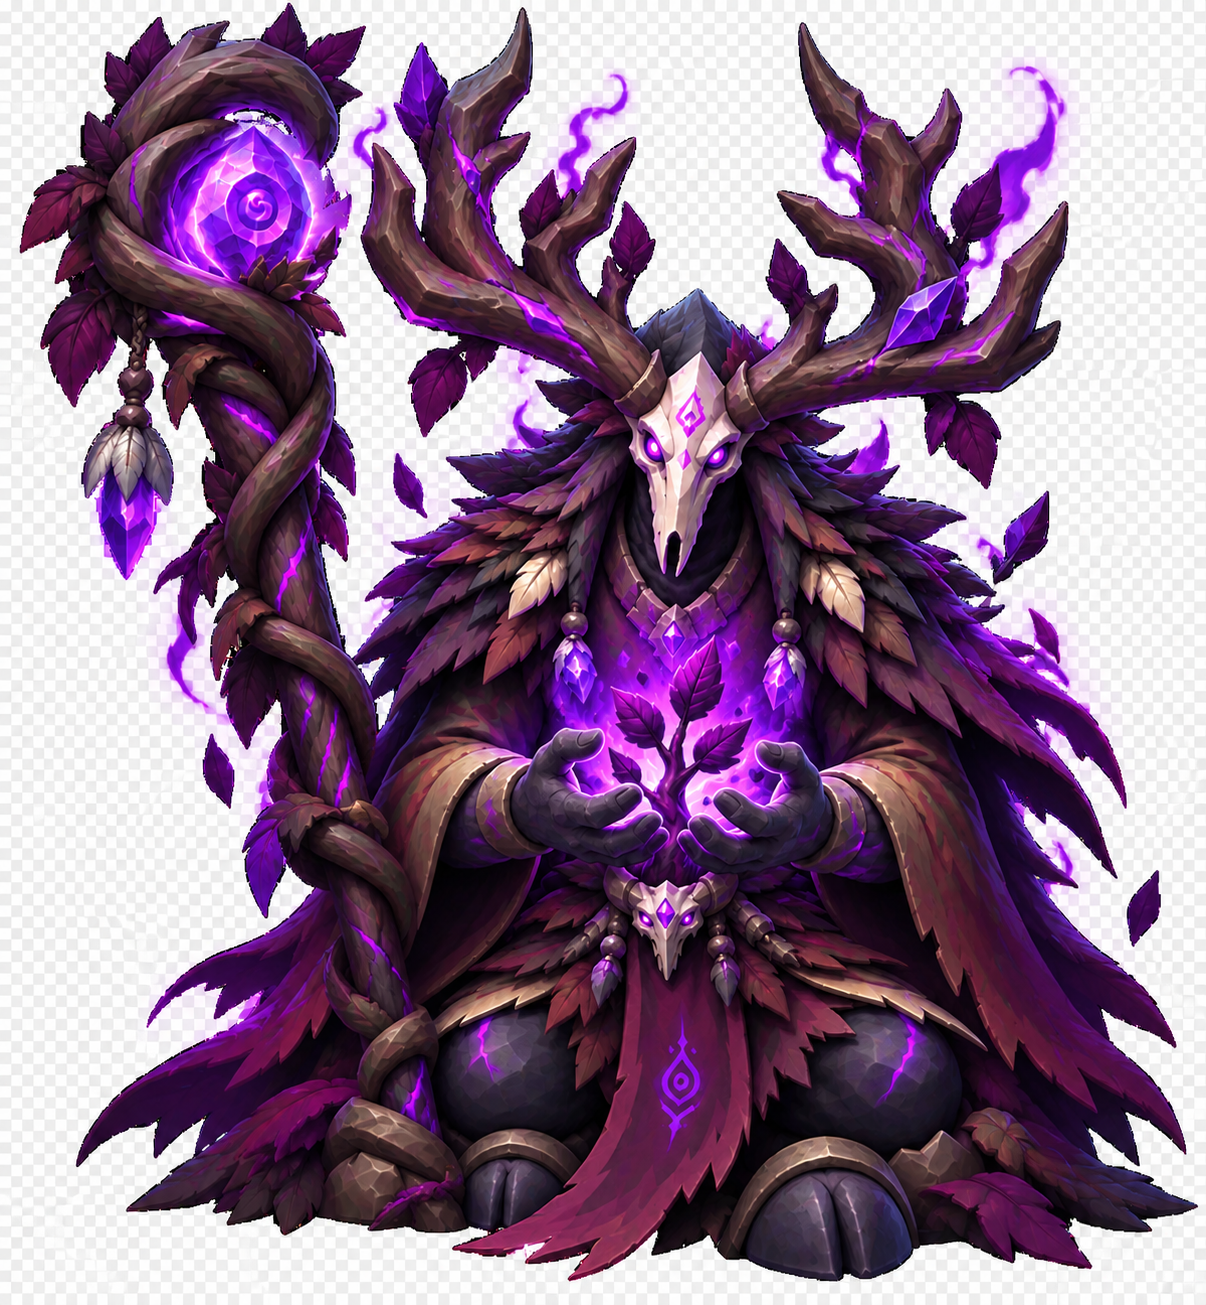
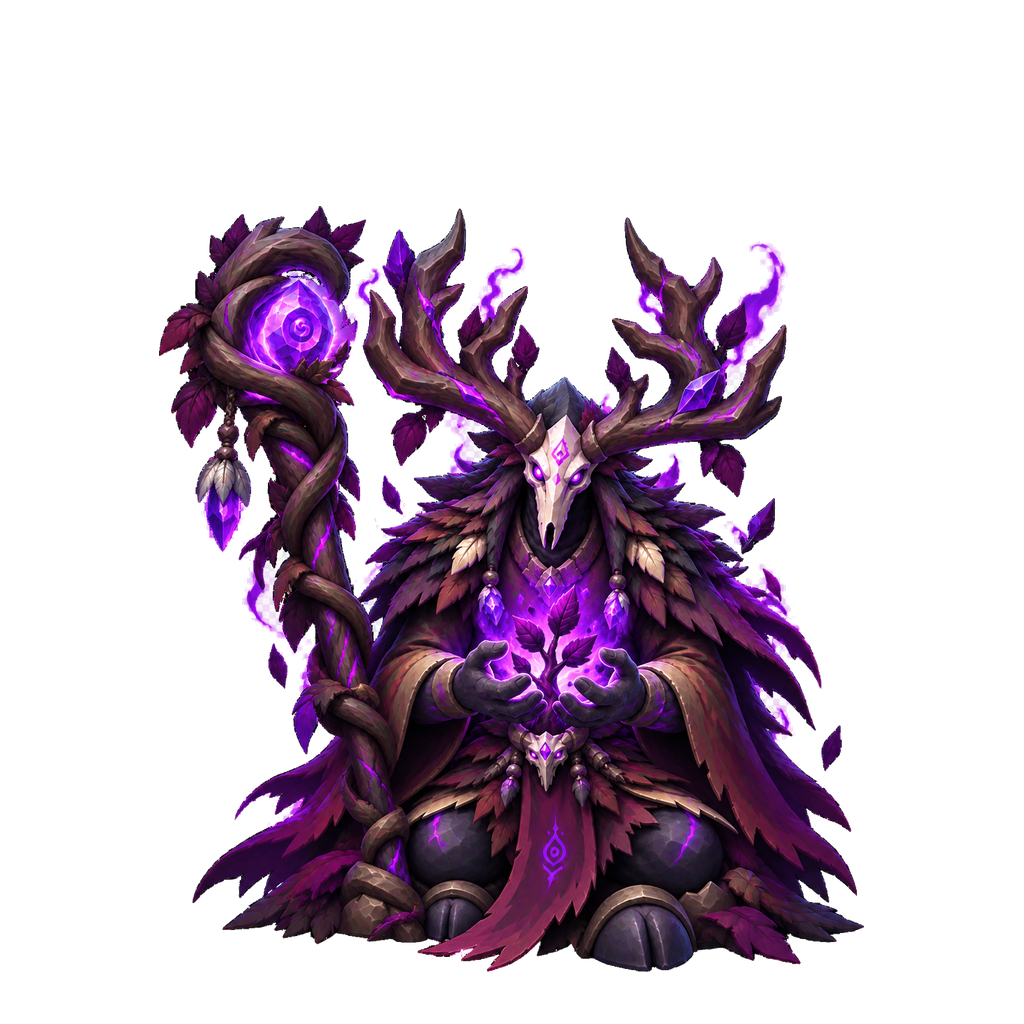
完成第二章怪物畫布一致性驗證

diff --git a/tests/black-forest-depths-policy.test.js b/tests/black-forest-depths-policy.test.js
@@ -76,10 +76,10 @@ assert.equal(heart.subarray(1, 4).toString(), 'PNG', 'the heart of the black for
 assert.equal(heart[25], 6, 'the heart of the black forest uses RGBA color with transparency');
 const druid = fs.readFileSync(path.join(__dirname, '..', policy.getMonster('corrupted-fallen-druid').image));
 assert.equal(druid.subarray(1, 4).toString(), 'PNG', 'the corrupted fallen druid is a PNG asset');
-assert.equal(druid[25], 2, 'the corrupted fallen druid preserves the supplied RGB artwork');
+assert.equal(druid[25], 6, 'the corrupted fallen druid uses the normalized RGBA canvas');
 const centurion = fs.readFileSync(path.join(__dirname, '..', policy.getMonster('corrupted-blackstone-centurion').image));
 assert.equal(centurion.subarray(1, 4).toString(), 'PNG', 'the corrupted blackstone centurion is a PNG asset');
-assert.equal(centurion[25], 2, 'the corrupted blackstone centurion preserves the supplied RGB artwork');
+assert.equal(centurion[25], 6, 'the corrupted blackstone centurion uses the normalized RGBA canvas');
 const spirit = fs.readFileSync(path.join(__dirname, '..', policy.getMonster('forest-spirit').image));
 assert.equal(spirit.subarray(1, 4).toString(), 'PNG', 'the forest spirit is a PNG asset');
 assert.equal(spirit[25], 6, 'the forest spirit uses RGBA color with transparency');
@@ -88,7 +88,7 @@ assert.equal(sporeBeast.subarray(1, 4).toString(), 'PNG', 'the dark spore beast 
 assert.equal(sporeBeast[25], 6, 'the dark spore beast uses RGBA color with transparency');
 const treant = fs.readFileSync(path.join(__dirname, '..', policy.getMonster('corrupted-treant').image));
 assert.equal(treant.subarray(1, 4).toString(), 'PNG', 'the corrupted treant is a PNG asset');
-assert.equal(treant[25], 2, 'the corrupted treant preserves the supplied RGB artwork');
+assert.equal(treant[25], 6, 'the corrupted treant uses the normalized RGBA canvas');
 const corruptedWolf = fs.readFileSync(path.join(__dirname, '..', policy.getMonster('corrupted-forest-wolf').image));
 assert.equal(corruptedWolf.subarray(1, 4).toString(), 'PNG', 'the depths corrupted forest wolf reuses the existing PNG asset');
 assert.equal(corruptedWolf[25], 6, 'the reused corrupted forest wolf uses RGBA transparency');

diff --git a/tests/chapter-two-monster-canvas.test.js b/tests/chapter-two-monster-canvas.test.js
@@ -1,0 +1,29 @@
+const assert = require('node:assert');
+const fs = require('node:fs');
+const path = require('node:path');
+
+const policies = [
+  require('../black-forest-entrance-policy.js'),
+  require('../black-forest-trail-policy.js'),
+  require('../spider-nest-policy.js'),
+  require('../blackstone-stronghold-policy.js'),
+  require('../forest-altar-policy.js'),
+  require('../black-forest-depths-policy.js')
+];
+
+const imagePaths = new Set(
+  policies.flatMap((policy) => policy.MONSTERS)
+    .map((monster) => monster.image?.split('?')[0])
+    .filter(Boolean)
+);
+
+assert.equal(imagePaths.size, 36, 'all chapter-two monster canvases are covered');
+for (const imagePath of imagePaths) {
+  const png = fs.readFileSync(path.join(__dirname, '..', imagePath));
+  assert.equal(png.subarray(1, 4).toString(), 'PNG', `${imagePath} is a PNG`);
+  assert.equal(png.readUInt32BE(16), 1024, `${imagePath} uses the shared canvas width`);
+  assert.equal(png.readUInt32BE(20), 1024, `${imagePath} uses the shared canvas height`);
+  assert.equal(png[25], 6, `${imagePath} uses an RGBA canvas`);
+}
+
+console.log('chapter-two-monster-canvas: assertions passed');
